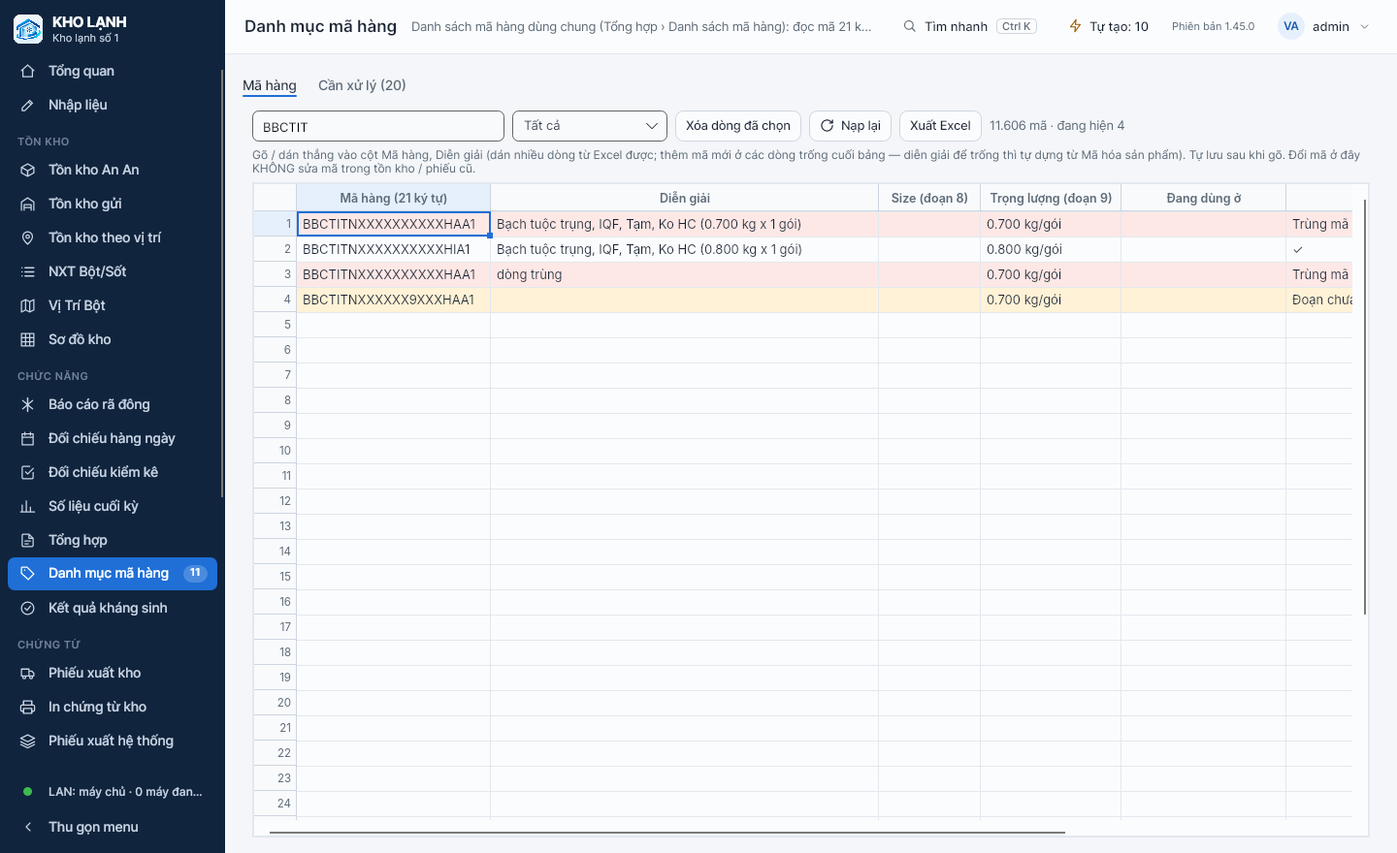
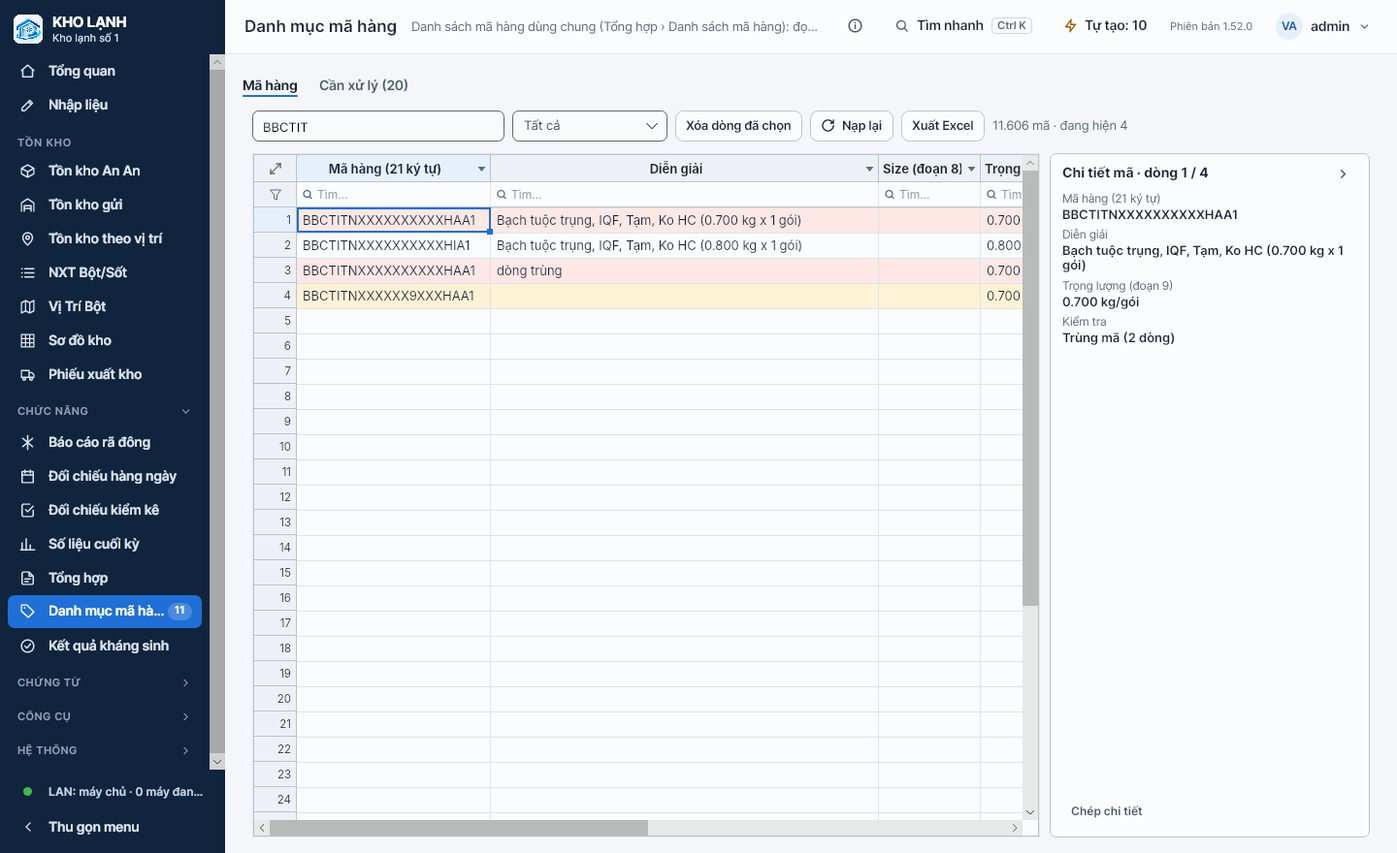
1.53.0: khung chi tiết bên phải cho bảng lớn, tách tab / nới bảng ở màn hình chật
- DetailPane: bấm một dòng → khung bên phải hiện đủ mọi cột (khỏi kéo ngang), nút Chép chi tiết,
  thu / mở nhớ theo tài khoản. Áp cho Tồn kho An An (Load Data, Phân loại, Theo dõi tồn),
  NXT Bột/Sốt (Tồn kho, Sổ cái), Danh mục mã hàng.
- SheetGrid.FitHeight: chiều cao đủ N dòng (kể cả dòng tìm kiếm) — dùng ở List sản xuất và bảng
  mục hàng Cargo (trước tính 24 px/dòng nên hụt dòng).
- Kết quả kháng sinh › Nhập từ Excel: tách 2 tab con, bảng sheet 300 px, xem trước 520 px.
- Phiếu xuất nội địa › Danh mục: bảng Size-quy cách chiếm hết phần còn lại của trang.

Claude-Session: https://claude.ai/code/session_01CcL5zKPX6MXqPbz7cZL3gY

diff --git a/src/KhoLanh.App/Controls/DetailPane.cs b/src/KhoLanh.App/Controls/DetailPane.cs
@@ -1,0 +1,124 @@
+using Avalonia;
+using Avalonia.Controls;
+using Avalonia.Layout;
+using Avalonia.Media;
+using KhoLanh.Core.Grid;
+
+namespace KhoLanh.App.Controls;
+
+/// <summary>
+/// Khung chi tiết bên phải của bảng lớn (1.53): bấm một dòng → hiện đủ mọi cột của dòng đó (tên cột + giá trị, xuống dòng),
+/// khỏi kéo ngang bảng. Thu / mở bằng nút ở đầu khung; trạng thái nhớ theo tài khoản (ui_detail:&lt;tk&gt;).
+/// </summary>
+public sealed class DetailPane : UserControl
+{
+    private const double PaneW = 330;
+    private readonly SheetGrid _g;
+    private readonly string _title;
+    private readonly StackPanel _body = new() { Spacing = 6 };
+    private readonly TextBlock _head = new() { FontWeight = FontWeight.Bold, FontSize = 14, TextWrapping = TextWrapping.Wrap };
+    private readonly Border _pane;
+    private readonly Button _open, _close;
+    private readonly Func<int, IEnumerable<(string Label, string Value)>>? _extra;
+
+    private static string Key => "ui_detail:" + (App.Services.Session.Username ?? "").ToLowerInvariant();
+    private static bool Remembered
+    {
+        get { try { return App.Services.Settings.Get(Key, "1") != "0"; } catch { return true; } }
+        set { try { App.Services.Settings.Set(Key, value ? "1" : "0"); } catch { } }
+    }
+
+    /// <param name="gridHost">phần bảng (thường là khung viền bọc <paramref name="grid"/>)</param>
+    /// <param name="extra">dòng thông tin thêm cho dòng dữ liệu (hiện trước các cột)</param>
+    public DetailPane(Control gridHost, SheetGrid grid, string title = "Chi tiết dòng", Func<int, IEnumerable<(string Label, string Value)>>? extra = null)
+    {
+        _g = grid; _title = title; _extra = extra;
+        _close = new Button { Content = Icon.Make("chevron-right", 15), Padding = new Thickness(6, 2), MinHeight = 0 };
+        _close.Classes.Add("ghost"); ToolTip.SetTip(_close, "Thu khung chi tiết");
+        _open = new Button { Content = new LayoutTransformControl { LayoutTransform = new RotateTransform(-90), Child = new TextBlock { Text = "Chi tiết dòng", FontSize = 12.5, FontWeight = FontWeight.SemiBold } },
+            Padding = new Thickness(4, 10), VerticalAlignment = VerticalAlignment.Top, Margin = new Thickness(6, 0, 0, 0) };
+        ToolTip.SetTip(_open, "Mở khung chi tiết của dòng đang chọn");
+
+        var headRow = new DockPanel { Margin = new Thickness(0, 0, 0, 8) };
+        DockPanel.SetDock(_close, Dock.Right); headRow.Children.Add(_close); headRow.Children.Add(_head);
+        var copy = new Button { Content = "Chép chi tiết", FontSize = 12, Padding = new Thickness(8, 3), HorizontalAlignment = HorizontalAlignment.Left, Margin = new Thickness(0, 8, 0, 0) };
+        copy.Classes.Add("ghost");
+        copy.Click += async (_, _) =>
+        {
+            if (TopLevel.GetTopLevel(this)?.Clipboard is { } cb) await cb.SetTextAsync(string.Join("\r\n", Pairs(_g.Row).Select(p => p.Label + ": " + p.Value)));
+        };
+        var inner = new DockPanel();
+        DockPanel.SetDock(headRow, Dock.Top); inner.Children.Add(headRow);
+        DockPanel.SetDock(copy, Dock.Bottom); inner.Children.Add(copy);
+        var sv = new ScrollViewer { Content = _body };
+        ScrollViewer.SetHorizontalScrollBarVisibility(sv, Avalonia.Controls.Primitives.ScrollBarVisibility.Disabled);
+        inner.Children.Add(sv);
+        _pane = new Border
+        {
+            Width = PaneW, Margin = new Thickness(10, 0, 0, 0), Padding = new Thickness(12, 10), CornerRadius = new CornerRadius(6),
+            BorderThickness = new Thickness(1), BorderBrush = AppTheme.Brush("#B9C3D0"), Background = AppTheme.Card, Child = inner,
+        };
+
+        var root = new Grid { ColumnDefinitions = new ColumnDefinitions("*,Auto,Auto") };
+        root.Children.Add(gridHost);
+        Grid.SetColumn(_pane, 1); root.Children.Add(_pane);
+        Grid.SetColumn(_open, 2); root.Children.Add(_open);
+        Content = root;
+
+        _close.Click += (_, _) => SetOpen(false);
+        _open.Click += (_, _) => SetOpen(true);
+        _g.SelectionChanged += Paint;
+        void OnModel() { if (_pane.IsVisible) Paint(); }
+        AttachedToVisualTree += (_, _) => { _g.Model.Changed -= OnModel; _g.Model.Changed += OnModel; SetOpen(Remembered, save: false); };
+        DetachedFromVisualTree += (_, _) => _g.Model.Changed -= OnModel;
+    }
+
+    public bool IsOpen => _pane.IsVisible;
+
+    public void SetOpen(bool open, bool save = true)
+    {
+        _pane.IsVisible = open; _open.IsVisible = !open;
+        if (save) Remembered = open;
+        if (open) Paint();
+    }
+
+    private IEnumerable<(string Label, string Value)> Pairs(int r)
+    {
+        var m = _g.Model;
+        if (r < 0 || r >= m.RowCount) yield break;
+        if (_extra is not null) foreach (var p in _extra(r)) yield return p;
+        for (var c = 0; c < m.ColCount; c++)
+        {
+            var col = m.Columns[c];
+            if (col.Width < 4) continue;                                  // cột ẩn (giữ mã dòng)
+            var raw = m.Get(r, c);
+            var v = _g.Display?.Invoke(r, c, raw) ?? raw;
+            if (string.IsNullOrWhiteSpace(v)) continue;
+            yield return (string.IsNullOrWhiteSpace(col.Header) ? GridModel.ColumnName(c) : col.Header, v);
+        }
+    }
+
+    private void Paint()
+    {
+        if (!_pane.IsVisible) return;
+        _body.Children.Clear();
+        var m = _g.Model; var r = _g.Row;
+        if (r < 0 || r >= m.RowCount)
+        {
+            _head.Text = _title;
+            _body.Children.Add(new TextBlock { Text = m.RowCount == 0 ? "Bảng chưa có dòng nào." : "Bấm một dòng trong bảng để xem đủ thông tin ở đây.", Classes = { "muted" }, TextWrapping = TextWrapping.Wrap });
+            return;
+        }
+        _head.Text = $"{_title} · dòng {r + 1:N0} / {m.RowCount:N0}";
+        var any = false;
+        foreach (var (label, value) in Pairs(r))
+        {
+            any = true;
+            var item = new StackPanel { Spacing = 1 };
+            item.Children.Add(new TextBlock { Text = label, FontSize = 11.5, Classes = { "muted" }, TextWrapping = TextWrapping.Wrap, Tag = "keep" });
+            item.Children.Add(new SelectableTextBlock { Text = value, FontSize = 13, FontWeight = FontWeight.SemiBold, TextWrapping = TextWrapping.Wrap });
+            _body.Children.Add(item);
+        }
+        if (!any) _body.Children.Add(new TextBlock { Text = "Dòng trống.", Classes = { "muted" } });
+    }
+}

diff --git a/src/KhoLanh.App/Views/CargoView.cs b/src/KhoLanh.App/Views/CargoView.cs
@@ -268,7 +268,8 @@ public sealed class CargoView : UserControl
             var ln = b.Lines[r]; if (LineTotal(ln) <= 0 && ln.Sn.Trim().Length == 0) return null;
             var res = ResolveLine(Svc.Cfg, b, ln, Svc.Ks); return res.Errors.Count > 0 ? BadBg : (res.Market.Length > 0 ? OkBg : null);
         };
-        void FixH() => grid.Height = Math.Min(480, 24 * (Math.Max(gm.RowCount, 1) + grid.SpareRows) + 34);
+        // 1.53: cao theo dòng thật (trước tính 24 px/dòng < 26 px thật → hụt dòng), tối đa 560; ⤢ ở góc mở cửa sổ lớn
+        void FixH() => grid.Height = SheetGrid.FitHeight(Math.Max(gm.RowCount, 1) + grid.SpareRows, 560);
         FixH();
         gm.Changed += () => { if (_loading) return; SyncLines(b, gm, ks); FixH(); Dirty(); };
         _blocks.Add((b, gm));
@@ -434,15 +435,22 @@ public sealed class CargoView : UserControl
 
     private Control BuildCfgTab()
     {
-        _lg = new SheetGrid(_lm) { SpareRows = 2, Height = 120 }; _qg = new SheetGrid(_qm) { SpareRows = 3, Height = 260 };
+        // 1.53: bảng Size-quy cách chiếm hết phần còn lại của trang (trước cố định 260 px trong khung cuộn); Loại hàng cao theo số dòng
+        _lg = new SheetGrid(_lm) { SpareRows = 2 }; _qg = new SheetGrid(_qm) { SpareRows = 3 };
+        _lm.Changed += () => _lg.Height = SheetGrid.FitHeight(_lm.RowCount + _lg.SpareRows, 220);
         var save = Btn("💾 Lưu danh mục", async () => await SaveCfgAsync(), primary: true); save.IsEnabled = _edit;
-        var s = new StackPanel { Spacing = 8, Margin = new Thickness(0, 6, 0, 0) };
-        s.Children.Add(new TextBlock { Text = "Mã hàng = tiền tố 13 ký tự (theo Loại + số quy cách) + Size 4 số + Mã gói 4 ký tự + số kết quả kháng sinh 4 số. Mã gói = ký tự 18–21 của mã hàng (trọng lượng + quy cách đóng thùng trong Tổng hợp › Mã hóa sản phẩm).", TextWrapping = TextWrapping.Wrap, FontSize = 12.5 });
-        s.Children.Add(Section("Loại hàng (mã loại gõ ở cột Loại: BTP = HLSO, NL = HOSO…)", Framed(_lg)));
-        s.Children.Add(Section("Size-quy cách (số quy cách = số cuối của 0040-6; cột tiền tố theo từng loại hàng ở trên)", Framed(_qg)));
+        var top = new StackPanel { Spacing = 8, Margin = new Thickness(0, 6, 0, 8) };
+        top.Children.Add(new TextBlock { Text = "Mã hàng = tiền tố 13 ký tự (theo Loại + số quy cách) + Size 4 số + Mã gói 4 ký tự + số kết quả kháng sinh 4 số. Mã gói = ký tự 18–21 của mã hàng (trọng lượng + quy cách đóng thùng trong Tổng hợp › Mã hóa sản phẩm).", TextWrapping = TextWrapping.Wrap, FontSize = 12.5, Classes = { "muted" } });
+        top.Children.Add(Section("Loại hàng (mã loại gõ ở cột Loại: BTP = HLSO, NL = HOSO…)", Framed(_lg)));
+        top.Children.Add(new TextBlock { Text = "Size-quy cách (số quy cách = số cuối của 0040-6; cột tiền tố theo từng loại hàng ở trên)", FontWeight = FontWeight.SemiBold });
         var sug = Btn("🪄 Gợi ý Mã gói + Tiền tố", async () => { SuggestCfg(); await Task.CompletedTask; }); sug.IsEnabled = _edit;
-        s.Children.Add(_cfgMsg); s.Children.Add(new WrapPanel { ItemSpacing = 8, Children = { save, sug } });
-        return new ScrollViewer { Content = s, HorizontalScrollBarVisibility = ScrollBarVisibility.Disabled };
+        var bottom = new StackPanel { Spacing = 6, Margin = new Thickness(0, 8, 0, 0) };
+        bottom.Children.Add(_cfgMsg); bottom.Children.Add(new WrapPanel { ItemSpacing = 8, Children = { save, sug } });
+        var root = new DockPanel();
+        DockPanel.SetDock(top, Dock.Top); root.Children.Add(top);
+        DockPanel.SetDock(bottom, Dock.Bottom); root.Children.Add(bottom);
+        root.Children.Add(Framed(_qg));
+        return root;
     }
 
     private void RenderCfg()

diff --git a/src/KhoLanh.App/Views/KhangSinhView.cs b/src/KhoLanh.App/Views/KhangSinhView.cs
@@ -530,15 +530,22 @@ public sealed partial class KhangSinhView : UserControl, IPage
         var p = new StackPanel { Spacing = 8, Margin = new Thickness(0, 8, 0, 0) };
         p.Children.Add(Muted("Dùng khi đã có sẵn danh sách lô (có thể đã có kết quả) trong file Excel. Mỗi sheet được coi là dữ liệu của 1 ngày (đoán từ tên sheet, sửa được), hoặc lấy Ngày từ cột Ngày nếu file có. App tự bỏ dòng công ty / tiêu đề phía trên để tìm đúng dòng tiêu đề cột. File PDF (phiếu kết quả hoặc bảng): dùng tab Nạp PDF phiếu."));
         p.Children.Add(HRow(Btn("Chọn file Excel…", async () => await PickExcel(), primary: true), _xInfo));
-        _xBody.Children.Add(Label("Danh sách sheet (mỗi sheet = 1 ngày) — sửa Dòng tiêu đề / Ngày nếu cần; sheet không có Ngày sẽ bị bỏ qua", bold: true));
-        _xBody.Children.Add(new Border { Height = 170, BorderBrush = Line_, BorderThickness = new Thickness(1), Child = _sg });
-        _xBody.Children.Add(Label("Khớp cột dữ liệu (dùng chung cho mọi sheet) — Mã lô hàng là bắt buộc", bold: true));
-        _xBody.Children.Add(_mapPanel);
-        _xBody.Children.Add(Label("Xem trước sheet đang chọn", bold: true));
-        _xBody.Children.Add(new Border { Height = 260, BorderBrush = Line_, BorderThickness = new Thickness(1), Child = _pg });
+        // 1.53: tách 2 tab con (trước 2 bảng nhỏ 170 / 260 px chồng nhau trong một trang cuộn)
+        var t1 = new StackPanel { Spacing = 8, Margin = new Thickness(0, 8, 0, 0) };
+        t1.Children.Add(Label("Danh sách sheet (mỗi sheet = 1 ngày) — sửa Dòng tiêu đề / Ngày nếu cần; sheet không có Ngày sẽ bị bỏ qua", bold: true));
+        t1.Children.Add(new Border { Height = 300, BorderBrush = Line_, BorderThickness = new Thickness(1), Child = _sg });
+        t1.Children.Add(Label("Khớp cột dữ liệu (dùng chung cho mọi sheet) — Mã lô hàng là bắt buộc", bold: true));
+        t1.Children.Add(_mapPanel);
+        var t2 = new StackPanel { Spacing = 8, Margin = new Thickness(0, 8, 0, 0) };
+        t2.Children.Add(Label("Xem trước sheet đang chọn (chọn sheet ở tab 1)", bold: true));
+        t2.Children.Add(new Border { Height = 520, BorderBrush = Line_, BorderThickness = new Thickness(1), Child = _pg });
         var run = Wrap(_skipDup);
         if (_edit) run.Children.Add(Btn("Nhập toàn bộ vào Dữ liệu", async () => await RunImport(), primary: true));
-        _xBody.Children.Add(run);
+        t2.Children.Add(run);
+        _xBody.Children.Add(new TabControl
+        {
+            Items = { new TabItem { Header = "1. Sheet & khớp cột", Content = t1 }, new TabItem { Header = "2. Xem trước & nhập", Content = t2 } },
+        });
         p.Children.Add(_xBody);
         foreach (var t in ImportTargets)
         {

diff --git a/src/KhoLanh.App/Views/AnAnView.cs b/src/KhoLanh.App/Views/AnAnView.cs
@@ -203,7 +203,7 @@ public sealed class AnAnView : UserControl, IPage
         _ldQ.TextChanged += (_, _) => { if (!_loading) RenderLoad(); };
         var bar2 = Bar(); bar2.Children.Add(_ldQ); bar2.Children.Add(_ldSheets);
         var head = new StackPanel(); head.Children.Add(bar); head.Children.Add(bar2); head.Children.Add(_ldStats);
-        return Page(head, Framed(_ldg));
+        return Page(head, new DetailPane(Framed(_ldg), _ldg, "Chi tiết dòng"));   // 1.53: khung chi tiết bên phải
     }
 
     private List<int> LdRows()
@@ -434,7 +434,7 @@ public sealed class AnAnView : UserControl, IPage
         var exp = new Expander { Header = "Điều kiện lọc của bảng này", Content = new ScrollViewer { Content = _plRules, MaxHeight = 320 }, HorizontalAlignment = HorizontalAlignment.Stretch, Margin = new Thickness(0, 6, 0, 0) };
         var p = new DockPanel();
         DockPanel.SetDock(head, Dock.Top); DockPanel.SetDock(exp, Dock.Bottom);
-        p.Children.Add(head); p.Children.Add(exp); p.Children.Add(Framed(_plg));
+        p.Children.Add(head); p.Children.Add(exp); p.Children.Add(new DetailPane(Framed(_plg), _plg, "Chi tiết dòng"));
         return p;
     }
 
@@ -718,7 +718,7 @@ public sealed class AnAnView : UserControl, IPage
         if (_export) bar.Children.Add(Btn("⬇ Xuất Excel", async () => { if (_tdRes is not null) await SaveXlsx(TheoDoiTon.Export(_tdRes, _tdItems), TheoDoiTon.FileName(D)); }));
         var head = new StackPanel(); head.Children.Add(bar); head.Children.Add(_tdStats);
         head.Children.Add(Muted(_edit ? "Gõ lý do còn tồn vào cột “Lý do còn tồn / ghi chú ✎” (Enter để lưu; xóa trắng = bỏ ghi chú). Ghi chú giữ qua các lần nạp." : "Chỉ xem."));
-        return Page(head, Framed(_tdg));
+        return Page(head, new DetailPane(Framed(_tdg), _tdg, "Chi tiết dòng"));
     }
 
     private void RenderTd()

diff --git a/src/KhoLanh.App/Views/SoKhoView.cs b/src/KhoLanh.App/Views/SoKhoView.cs
@@ -327,7 +327,7 @@ public sealed class SoKhoView : UserControl, IPage
             if (Svc.CanEdit) bar.Children.Add(Btn("Chốt tồn đầu kỳ…", Chot, "Tồn cuối ngày trước → dòng Tồn đầu của ngày chọn; các báo cáo sau đó tính từ mốc này"));
             if (Svc.CanEdit) bar.Children.Add(Btn("📱 Đưa lên Vị Trí Bột…", PushVtb, "Thay dữ liệu Vị Trí Bột (điện thoại xem / xuất) bằng tồn theo vị trí đến ngày đang chọn"));
             var top = new StackPanel { Spacing = 6, Margin = new Thickness(0, 6) }; top.Children.Add(bar); top.Children.Add(_sum);
-            var root = new DockPanel(); DockPanel.SetDock(top, Dock.Top); root.Children.Add(top); root.Children.Add(Framed(_g));
+            var root = new DockPanel(); DockPanel.SetDock(top, Dock.Top); root.Children.Add(top); root.Children.Add(new DetailPane(Framed(_g), _g, "Chi tiết dòng"));   // 1.53
             Content = root;
         }
 
@@ -545,7 +545,7 @@ public sealed class SoKhoView : UserControl, IPage
             if (Svc.CanEdit) hb.Children.Add(Btn("↶ Hoàn tác thao tác đang chọn", Undo));
             var root = new Grid { RowDefinitions = new RowDefinitions("Auto,3*,Auto,2*") };
             bar.Margin = new Thickness(0, 6); root.Children.Add(bar);
-            var a = Framed(_g); Grid.SetRow(a, 1); root.Children.Add(a);
+            var a = new DetailPane(Framed(_g), _g, "Chi tiết dòng sổ"); Grid.SetRow(a, 1); root.Children.Add(a);   // 1.53
             Grid.SetRow(hb, 2); root.Children.Add(hb);
             var b = Framed(_hg); Grid.SetRow(b, 3); root.Children.Add(b);
             Content = root;

diff --git a/src/KhoLanh.App/Controls/SheetGrid.cs b/src/KhoLanh.App/Controls/SheetGrid.cs
@@ -63,6 +63,12 @@ public sealed class SheetGrid : UserControl
     internal double TopH => HeadH + (ShowFilterRow ? FilterH : 0);
     /// <summary>Dòng tìm kiếm chỉ hiện khi bảng đủ cao (≥ 6 dòng sau khi thêm) — bảng con thấp / cố định chiều cao không bị mất dòng
     /// (1.51: sau 1.49 nhiều bảng con chỉ còn thấy 1 dòng). Bảng thấp vẫn lọc được bằng nút ▾ ở tiêu đề; đang lọc bằng chữ thì luôn hiện.</summary>
+    /// <summary>Chiều cao để thấy đủ <paramref name="rows"/> dòng (kèm thanh cuộn ngang; từ 6 dòng kèm cả dòng tìm kiếm cột), tối đa <paramref name="max"/>.</summary>
+    public static double FitHeight(int rows, double max = double.PositiveInfinity)
+    {
+        rows = Math.Max(1, rows);
+        return Math.Min(max, HeadH + RowH * rows + 22 + (rows >= 6 ? FilterH : 0));
+    }
     internal bool ShowFilterRow => _filterable && (_surface.Bounds.Height <= 0 || _surface.Bounds.Height >= HeadH + FilterH + RowH * 6
         || _filters.Values.Any(f => f.Text.Trim().Length > 0));
     internal double NumW => Math.Max(44, (Math.Max(Model.RowCount + SpareRows, 1).ToString().Length) * 8 + 18);

diff --git a/src/KhoLanh.App/Views/DanhMucMaView.cs b/src/KhoLanh.App/Views/DanhMucMaView.cs
@@ -66,7 +66,7 @@ public sealed class DanhMucMaView : UserControl, IPage
         };
         var top = new StackPanel(); top.Children.Add(bar); top.Children.Add(help);
         var p1 = new DockPanel(); DockPanel.SetDock(top, Dock.Top); p1.Children.Add(top);
-        p1.Children.Add(new Border { BorderBrush = Line_, BorderThickness = new Thickness(1), Margin = new Thickness(0, 6, 0, 0), Child = _g });
+        p1.Children.Add(new DetailPane(new Border { BorderBrush = Line_, BorderThickness = new Thickness(1), Child = _g }, _g, "Chi tiết mã") { Margin = new Thickness(0, 6, 0, 0) });   // 1.53
         _tabs.Items.Add(new TabItem { Header = "Mã hàng", Content = p1 });
 
         _mg = new SheetGrid(_mm) { SpareRows = 0 }; _ng = new SheetGrid(_nm) { SpareRows = 0 }; _dg = new SheetGrid(_dm) { SpareRows = 0 };

diff --git a/src/KhoLanh.App/Views/ListSxView.cs b/src/KhoLanh.App/Views/ListSxView.cs
@@ -177,7 +177,7 @@ public sealed class ListSxView : UserControl
     }
 
     /// <summary>Chiều cao bảng con: tiêu đề + số dòng (≥ 3) + thanh cuộn ngang, tối đa <paramref name="max"/>.</summary>
-    private static double SubH(int rows, double max) => Math.Min(max, SheetGrid.HeadH + SheetGrid.RowH * Math.Max(3, rows) + 22);
+    private static double SubH(int rows, double max) => SheetGrid.FitHeight(Math.Max(3, rows), max);
 
     private async Task Import()
     {

diff --git a/CLAUDE.md b/CLAUDE.md
@@ -41,6 +41,7 @@ App quản lý kho lạnh **viết lại bằng C#** (.NET 8, Avalonia, SQLite) 
 | 1.39 | Tự tạo List / phiếu theo Lịch xuất (`PNX_AutoLog` dùng chung app cũ) | `LichXuat/LichXuatAuto.cs`, `PhieuKho/PhieuKhoAuto.cs` |
 | 1.40 | Danh mục mã hàng (quyền `m3dm`) | `DanhMuc/` |
 | 1.41 | Kiểm kê nhanh (tab đầu Đối chiếu kiểm kê) | `KiemKe/KkNhanh.cs`, `Views/KiemKeView.Nhanh.cs` |
+| 1.53 | Khung chi tiết bên phải (bấm dòng → đủ mọi cột, thu / mở, nhớ theo tài khoản) cho Tồn kho An An (Load Data, Phân loại, Theo dõi tồn), NXT Bột/Sốt (Tồn kho, Sổ cái), Danh mục mã hàng · tách tab / nới bảng ở màn hình chật: Kháng sinh › Nhập từ Excel (2 tab con), Phiếu xuất nội địa › Danh mục (bảng Size-quy cách chiếm hết trang), bảng mục hàng Cargo đủ dòng | `Controls/DetailPane.cs`, `SheetGrid.FitHeight` |
 | 1.52 | Mọi bảng có nút ⤢ (góc trên trái / F11 / chuột phải) mở ra cửa sổ lớn cùng dữ liệu · bảng con List sản xuất cao theo số dòng (≥ 3), khung chi tiết rộng ngang danh sách · Tổng quan: bỏ Thao tác nhanh, Việc cần làm thành tab 2 của Lịch xuất trong ngày, hai khung rộng hết trang | `SheetGrid.OpenLarge`, `ListSxView.SubH`, `TongQuanView.HomeTab` |
 | 1.51 | Gọn ghi chú toàn app: ghi chú hướng dẫn dài (chữ mờ, có sẵn khi mở trang) tự ẩn, gom vào nút ⓘ Hướng dẫn ở đầu trang · dòng tìm kiếm cột tự ẩn ở bảng thấp (sửa bảng con chỉ thấy 1 dòng sau 1.49) | `Controls/HintTrim.cs`, `MainWindow` (`ShowHelp`), `SheetGrid.ShowFilterRow` |
 | 1.50 | Chọn hàng xuất bằng ô tích đầu dòng (An An › Xuất Hàng, Gửi › Tạo phiếu xuất, Vị Trí Bột, Tồn theo vị trí; tích = lấy hết tồn, ô tiêu đề = mọi dòng đang hiện, phím cách) · thanh cuộn luôn to · Sơ đồ kho gọn phần đầu · tab "Phiếu xuất nội địa" | `Controls/SheetGrid.cs` (`CheckCol`, `CheckFill`, `SetChecked`), `Styles.axaml`, `SoDoView.cs` |
@@ -71,6 +72,7 @@ App quản lý kho lạnh **viết lại bằng C#** (.NET 8, Avalonia, SQLite) 
 
 ## Nhật ký tiến độ
 (Ghi theo mẫu: ngày · việc · bản · đã làm · còn thiếu / lưu ý · file chính.)
+- 24/11/2026 · Khung chi tiết + tách tab · 1.53.0 · người dùng chọn làm thêm 2 việc đề xuất rồi "gộp, phát hành bản cuối để test". `DetailPane(gridHost, grid, title)`: Grid "*,Auto,Auto" — bảng | khung 330 px | nút dọc "Chi tiết dòng" khi thu; nội dung = các cột rộng ≥ 4 px có chữ (dùng `Display`), nút Chép chi tiết; nghe `SelectionChanged` + `Model.Changed` (chỉ khi gắn vào màn hình); trạng thái `ui_detail:<tk>`. `SheetGrid.FitHeight(rows, max)`: chiều cao đủ N dòng (từ 6 dòng cộng dòng tìm kiếm) — dùng ở List sản xuất, mục hàng Cargo (trước tính 24 px/dòng → hụt). Kháng sinh › Nhập từ Excel: tab con "1. Sheet & khớp cột" / "2. Xem trước & nhập" (300 / 520 px). Cargo › Danh mục: DockPanel, bảng Size-quy cách lấp phần còn lại.
 - 24/11/2026 · Bảng rộng hơn + Tổng quan · 1.52.0 · người dùng: "một số bảng chỉ hiển thị 1 dòng… thiết kế tab khác hoặc popup cho rộng hơn" + "xóa Thao tác nhanh, Việc cần làm thành tab 2 của Lịch xuất trong ngày, căn rộng 2 bảng còn lại". Chung: `SheetGrid.OpenLarge` — nút ⤢ vẽ ở ô góc (bấm / F11 / chuột phải), cửa sổ ≈ 92 % màn hình, lưới mới CÙNG `GridModel` (sửa ở đâu cũng cập nhật), chép Display / CellBackground / ô tích / bộ lọc; lưới nghe `Model.Changed` chỉ khi gắn vào màn hình (gắn lại thì đồng bộ) để cửa sổ đóng không giữ bộ nhớ; Chọn tất cả chuyển sang chuột phải / Ctrl+A. Dòng tìm kiếm bỏ qua cột ẩn rộng 0. Riêng: List sản xuất `SubH` (≥ 3 dòng) + khung chi tiết 1:1. Tổng quan: `_quick` không còn hiện (giữ code / thiết lập cũ). Ảnh `45c-bang-cua-so-lon`, `05-tong-quan`, `30c-list-san-xuat`. Còn có thể làm: chuyển từng bảng con chật sang tab riêng nếu người dùng chỉ ra màn hình cụ thể.
 - 24/11/2026 · Gọn ghi chú + bảng con · 1.51.0 · người dùng: "bảng dữ liệu quá nhỏ, ghi chú quá nhiều, lược bỏ ghi chú không cần thiết toàn app" (~110 ghi chú ở ~25 màn hình) → làm ở tầng chung `HintTrim` (class handler `Control.LoadedEvent` cho TextBlock): chữ mờ `muted` + xuống dòng + ≥ 60 ký tự + nằm trong `PageHost` lúc hiện → ẩn; chữ đổi sau đó (dòng trạng thái động) → hiện lại; giữ riêng bằng `Tag = "keep"`. Nút ⓘ đầu trang (`MainWindow.ShowHelp`) liệt kê ghi chú đã ẩn của tab đang mở (Flyout rộng tối đa ~456 px → nội dung 410). Sửa hồi quy 1.49: dòng tìm kiếm cột (26 px) làm bảng con cố định chiều cao chỉ còn 1 dòng → `SheetGrid.ShowFilterRow` chỉ hiện khi bảng cao ≥ tiêu đề + dòng lọc + 6 dòng (hoặc đang lọc bằng chữ); bảng thấp vẫn lọc bằng nút ▾. Ảnh `27z-huong-dan`. Việc tiếp (người dùng xếp hàng): bảng con rộng hơn (tab / cửa sổ lớn theo module, vd Phiếu xuất kho › List sản xuất) · Tổng quan: bỏ Thao tác nhanh, Việc cần làm thành tab 2 của Lịch xuất trong ngày.
 - 24/11/2026 · Chọn hàng xuất + thanh cuộn + Sơ đồ kho gọn · 1.50.0 · 1.49.0 gộp vào main nhưng KHÔNG phát hành (CI main đỏ: `LanTests.Standby_takes_over…` "máy con chuyển sang máy dự phòng") → nội dung 1.49 ra cùng 1.50. Nguyên nhân: máy con chỉ học danh sách máy chủ / dự phòng (`lan_nodes`) ở lượt "changes" (15 s); máy chủ tắt ngay sau khi máy dự phòng vừa nối → máy con không biết máy dự phòng, kẹt mất kết nối. Sửa: `Handle` gắn `nodes` vào trả lời read / list / write / sync, `CallServer` + `Flush` gọi `Learn`; test tất định `Client_learns_standby_from_a_write_before_its_next_pull` (đỏ khi bỏ phần sửa); 12 bộ `LanTests` song song đều đạt. người dùng: trang tạo phiếu xuất phải gõ SL → muốn chọn (mẫu bảng có ô tích + SL cần xuất, ưu tiên hiệu năng). Chọn giữ lưới tự vẽ (chỉ vẽ phần đang thấy, không tạo control mỗi dòng) + ô tích vẽ trong cột số dòng: `SheetGrid.CheckCol` = cột SL, tích → điền `CheckFill` (tồn còn xuất được), bỏ tích → xóa, mọi thay đổi qua `Model.SetCells` (1 lần hoàn tác) nên luồng `Model.Changed` cũ của View giữ nguyên. Thanh cuộn: `AllowAutoHide=False` toàn app (Styles.axaml). Sơ đồ kho: công cụ lên dòng thông tin file, Kho + Khu 1 dòng, thẻ số 1 dòng, Phiếu In: 1 thanh công cụ, ghi chú thành tooltip. Tab Cargo list → "Phiếu xuất nội địa". Công cụ chụp: `SHOTS_KEYS=m8,m13` chụp riêng module; ảnh `40-an-an-xuat-hang-tich-chon`, `41-gui-px-tich-chon`.

diff --git a/README.md b/README.md
@@ -46,6 +46,7 @@ App đang được dựng lại theo từng module (từ bản 1.7.0 đã gỡ c
 | Giao diện | Menu tài khoản › **Giao diện & cỡ chữ…**: 2 bộ màu **Sáng dịu** (nền trắng ngà / xám rất nhạt, không trắng tinh) và **Tối** (xám đen), thu phóng toàn màn hình 90–130 % (phím tắt Ctrl + / Ctrl − / Ctrl 0); xem trước ngay, lưu riêng theo tài khoản trên máy. Màu của mọi màn hình đi qua bảng màu chung `AppTheme` (bộ Tối tự đổi từ màu bộ Sáng, giữ sắc màu); ảnh / phiếu in xuất ra file giữ màu gốc. Hộp thoại cũng phóng theo cỡ chữ. |
 | Lọc bảng (mọi bảng) | Mọi bảng số liệu (lưới kiểu Excel) có **dòng tìm kiếm riêng từng cột** ngay dưới tiêu đề (bấm vào để gõ; không phân biệt hoa thường / dấu, nhiều từ đều phải có; cột số gõ được `>100`, `<=0`, `=300`, `<>0`) và nút **▾ lọc phân tầng** ở tiêu đề (hoặc Alt+↓): danh sách giá trị kèm số dòng, chỉ còn giá trị qua được bộ lọc các cột khác, cột ngày chia Năm › Tháng › Ngày, có (Trống), ô tìm trong danh sách, Chọn tất cả. Cột đang lọc tô xanh, số dòng gốc hiện xanh; bấm phễu ở góc trái hoặc chuột phải › Bỏ mọi bộ lọc. Chép / dán / xóa / điền xuống chỉ tác động dòng đang hiện. Bảng tóm tắt vài dòng (Tổng Tồn, Đối soát) không có dòng lọc. |
 | Chọn hàng xuất | Các trang tạo phiếu xuất (Tồn kho An An › Xuất Hàng, Tồn kho gửi › Tạo phiếu xuất, Vị Trí Bột, Tồn kho theo vị trí) có **ô tích ☐ đầu dòng**: tích = chọn xuất hết tồn còn lại của dòng (sửa lại SL được), bỏ tích = bỏ chọn; ô tích tiêu đề = chọn / bỏ mọi dòng đang hiện (dùng cùng dòng lọc từng cột); phím cách tích các dòng đang chọn. Vẫn gõ / dán SL như cũ được. Thanh cuộn toàn app luôn hiện cỡ lớn. |
+| Khung chi tiết | Tồn kho An An (Load Data, Phân loại, Theo dõi tồn), NXT Bột/Sốt (Tồn kho, Sổ cái) và Danh mục mã hàng có **khung chi tiết bên phải**: bấm một dòng là thấy đủ mọi cột của dòng đó (khỏi kéo ngang), có nút Chép chi tiết; thu / mở bằng nút ở đầu khung (nhớ theo tài khoản). |
 | Bảng cửa sổ lớn | Mọi bảng có nút **⤢** ở góc trên trái (hoặc F11, hoặc chuột phải › Mở bảng ra cửa sổ lớn): mở bảng ra cửa sổ gần toàn màn hình, cùng dữ liệu (sửa ở đâu cũng cập nhật), có lọc / ô tích như bảng gốc — dùng cho bảng con trong khung hẹp. Tổng quan: “Việc cần làm” là tab 2 của khung Lịch xuất trong ngày (bỏ khung Thao tác nhanh — đã có menu bên trái). |
 | Gọn ghi chú | Ghi chú hướng dẫn dài trong các trang được thu lại để bảng có thêm chỗ; xem lại bằng nút **ⓘ Hướng dẫn** ở đầu trang (liệt kê ghi chú của tab đang mở). Dòng trạng thái (số dòng, kết quả đối soát…) vẫn hiện. Bảng thấp (bảng con) tự ẩn dòng tìm kiếm cột để thấy đủ dòng — vẫn lọc bằng nút ▾ ở tiêu đề. |
 | An toàn | Tự sao lưu mỗi ngày (giữ 30 bản), sao lưu ra file, khôi phục, nhật ký thao tác. |
